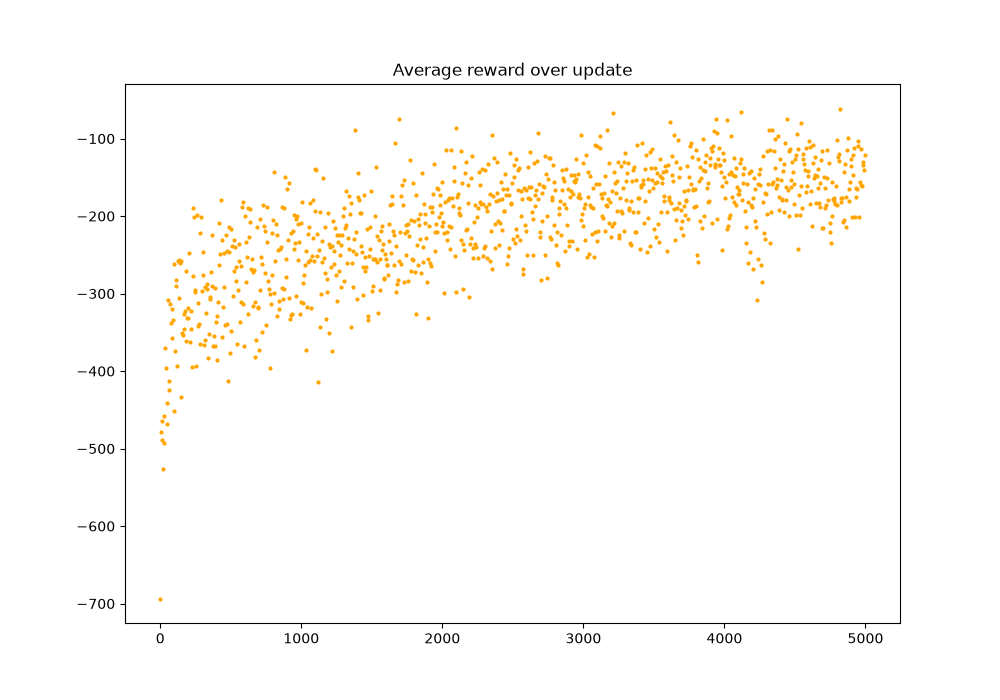
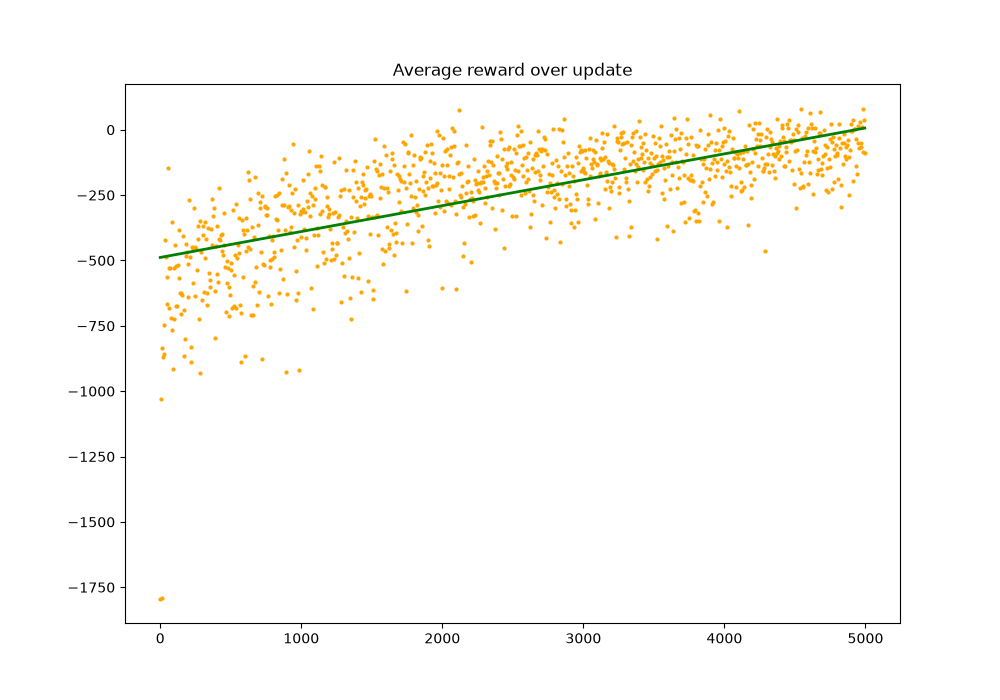
modified to have dynamic friction and throttle force to input to pid finder, updated graphs

diff --git a/auto/pid-reinforcement/reinforcement_machine_learning.py b/auto/pid-reinforcement/reinforcement_machine_learning.py
@@ -13,6 +13,7 @@ import random
 import sys
 
 import matplotlib.pyplot as plt
+import numpy as np
 import torch
 import torch.nn.functional as F
 from torch import nn
@@ -33,31 +34,39 @@ device = "cpu"
 print("Device used: " + device)
 
 class Env_For_Car():
-	def __init__(self, max_v:float=100, max_dt:float=0.3, steps:int=250):
+	def __init__(self, max_v:float=100, max_dt:float=0.3, max_throttle_force:float=10000, max_friction:float=2.0, steps:int=250):
 		self.currentCar = None
-		self.max_v = max_v * 1.2
-		self.max_dt = max_dt * 1.2
+		self.max_v = max_v
+		self.max_dt = max_dt
+		self.max_throttle_force = max_throttle_force
+		self.max_friction = max_friction
+
+		self.max_v_adjusted = max_v * 1.2
+		self.max_dt_adjusted = max_dt * 1.2
+		self.max_throttle_force_adjusted = max_throttle_force * 1.2
+		self.max_friction_adjusted = max_friction * 1.2
+
 		self.steps = steps
 		self.prev_rewards = [0]
 
-	def create_car(self, desired_v:float, dt:float):
-		self.currentCar = make_car(desired_v=desired_v, dt=dt)
+	def create_car(self, desired_v:float, dt:float, mass: float = 1000, max_throttle_force: float = 5000, friction: float = 2.0):
+		self.currentCar = make_car(desired_v, dt, mass, max_throttle_force, friction)
 		self.prev_reward = 0
 
 	def get_state(self):
-		return [(self.currentCar["desired_v"] / self.max_v), (self.currentCar["dt"] / self.max_dt), (self.currentCar["v"] / self.max_v)]
+		return [(self.currentCar["desired_v"] / self.max_v_adjusted), (self.currentCar["dt"] / self.max_dt_adjusted), (self.currentCar["v"] / self.max_v_adjusted), (self.currentCar["max_throttle_force"] / self.max_throttle_force_adjusted), (self.currentCar["friction"] / self.max_friction_adjusted)]
 
 	def step(self, P:float, I:float, D:float):
 		# old_error = abs(self.currentCar["desired_v"] - self.currentCar["v"])
 		acceleration_desired, _ = calculate_desired_acceleration(self.currentCar, P, I, D)
-		throttle_perc = acceleration_to_throttle_percentage(acceleration_desired)
+		throttle_perc = acceleration_to_throttle_percentage(acceleration_desired, self.currentCar)
 		update(self.currentCar, throttle_perc)
 		done = False
 		if (self.currentCar["step"] >= self.steps):
 			done = True
 
 		error = abs(self.currentCar["desired_v"] - self.currentCar["v"])
-		reward = -error / self.max_v
+		reward = -error / self.max_v_adjusted
 
 		#try changing these values as it gets closer like load model and have these more strict/better reward
 		reward += 0.1 * (0.2 / max(error, 0.1))
@@ -100,7 +109,7 @@ class RL_Project():
 		random.seed(seed)
 		torch.manual_seed(seed)
 
-		self.policy = Policy_Gradient(n_observations=3).to(device) #set the model and gradient descent
+		self.policy = Policy_Gradient(n_observations=5).to(device) #set the model and gradient descent
 		self.optimizer = torch.optim.Adam(self.policy.parameters(), lr=1e-3) # optimizer for the loss
 		self.average_reward = []
 		self.average_reward_times = []
@@ -159,9 +168,11 @@ class RL_Project():
 			
 			for _ in range(batch_size):
 				#make a random desired velocity and desired dt then creates the car enviroment with
-				desired_v = round(random.uniform(0, 100), 1)
-				dt = round(random.uniform(0.1, 0.3), 2)
-				env_car.create_car(desired_v=desired_v, dt=dt)
+				desired_v = round(random.uniform(0, env_car.max_v), 1)
+				dt = round(random.uniform(0.1, env_car.max_dt), 2)
+				throttle_force = round(random.uniform(3000, env_car.max_throttle_force), 2)
+				friction = round(random.uniform(1, env_car.max_friction_adjusted), 2)
+				env_car.create_car(desired_v=desired_v, dt=dt, max_throttle_force=throttle_force, friction=friction)
 
 				log_probs, rewards = [], []
 				done = False
@@ -203,6 +214,9 @@ class RL_Project():
 			#graphs reward overtime along with saves it
 			plt.figure(figsize=(10, 7))
 			plt.scatter(self.average_reward_times, self.average_reward, c="orange", s=4, label="Average reward over update")
+			times_array = np.array(self.average_reward_times)
+			slope, intercept = np.polyfit(times_array, self.average_reward, 1)
+			plt.plot(times_array, slope * times_array + intercept, color='green', linestyle='-', linewidth=2, label='Average reward over update trend line')
 			plt.title("Average reward over update")
 			plt.savefig("auto/pid-reinforcement/Average_Reward_Over_Update_Last_Training_Run.png")
 			plt.show()

diff --git a/auto/pid-reinforcement/run_reinforcement.py b/auto/pid-reinforcement/run_reinforcement.py
@@ -8,22 +8,25 @@ BATCH_SIZE = 32 # training - how many episodes (games it plays) you want it to d
 GAMMA = 0.99 # training - how much you want the model to pay attention to its current decision... higher means it will look further ahead and a single bad idea it will think overall it was for a better reward (bad wording, covered easily online what gamma is)
 
 MAX_DT = 0.3 # training - max dt (delay time... like how often it will update per second... 0.1 is every 0.1 seconds) it will ever see (lowest is hard set to 0.1)
-MAX_V = 100 # training and training - max velocity it will ever see (lowest is hard set to 0)
-STEPS = 550 # training and training - how many dt per episode/game
+MAX_V = 100 # training and testing - max velocity it will ever see (lowest is hard set to 0)
+MAX_THROTTLE_FORCE = 10000 # training and testing - max throttle force, min is set to 3000
+MAX_FRICTION = 2.5 # training and testing - max friction number, min hard set to 1.0
+STEPS = 1000 # training and testing - how many dt per episode/game
 
 DESIRED_V = 20 # testing - desired velocity to hit
 DESIRED_DT = 0.1 # testing - dt during testing game
+MASS = 1000 # testing - M
+FRICTION = 2 # testing - friction number
+THROTTLE_FORCE = 5000 # testing - max throttle due 
 
 
-
-
-TOGGLE_TRAINING = False # training - toggle where model with train (true means it will)
+TOGGLE_TRAINING = True # training - toggle where model with train (true means it will)
 LOAD_PREVIOUSE_MODEL_FOR_TRAINING = False # training - toggles whether to load the previouse model for training or to make a new one from random tensors (True means it will start a new)
 
 # TRAINING
 if (TOGGLE_TRAINING):
 
-	CarEnv = Env_For_Car(max_v=MAX_V, max_dt=MAX_DT, steps=STEPS)
+	CarEnv = Env_For_Car(max_v=MAX_V, max_dt=MAX_DT, max_throttle_force=MAX_THROTTLE_FORCE, max_friction=MAX_FRICTION, steps=STEPS)
 
 	rl_prj = RL_Project()
 	if (LOAD_PREVIOUSE_MODEL_FOR_TRAINING):
@@ -35,7 +38,7 @@ if (TOGGLE_TRAINING):
 
 #TESTING
 # create car enviroment obj
-CarEnv = Env_For_Car(max_v=MAX_V, max_dt=MAX_DT, steps=STEPS)
+CarEnv = Env_For_Car(max_v=MAX_V, max_dt=MAX_DT, max_throttle_force=MAX_THROTTLE_FORCE, max_friction=MAX_FRICTION, steps=STEPS)
 
 # create reinforcement learning obj and loads the model
 rl_prj = RL_Project()
@@ -47,7 +50,7 @@ times = []
 errors = []
 
 # create car enviroment
-car = CarEnv.create_car(desired_v=DESIRED_V, dt=DESIRED_DT)
+car = CarEnv.create_car(desired_v=DESIRED_V, dt=DESIRED_DT, max_throttle_force=THROTTLE_FORCE, friction=FRICTION)
 
 # runs the model for each step
 P, I, D = rl_prj.get_pid_from_loaded_model(CarEnv)

diff --git a/auto/pid_template.py b/auto/pid_template.py
@@ -1,7 +1,7 @@
 import numpy as np
 
 
-def make_car(desired_v:float=20.0, dt:float=0.1) -> dict:
+def make_car(desired_v:float=20.0, dt:float=0.1, mass: float = 1000, max_throttle_force: float = 5000, friction: float = 2.0) -> dict:
 	""" 
 	Generates a dictionary that holds all the car's values. Keeps track of state varaibles.
 	"""
@@ -15,6 +15,9 @@ def make_car(desired_v:float=20.0, dt:float=0.1) -> dict:
 		"desired_v" : desired_v, #desired velocity of your car, the velocity you want to maintain
 		"step" : 0,
 		"last_throttle_perc" : 0, #last throttle perc
+		"mass": mass,
+		"max_throttle_force": max_throttle_force,
+		"friction": friction,
 
 		#hint: use these variables in the integral and derivative portion of your PID control (steps 5 and 6 )
 		"error_prev" : None,
@@ -22,7 +25,7 @@ def make_car(desired_v:float=20.0, dt:float=0.1) -> dict:
 	}
 	return car_state_dictionary
 
-def update(car: dict, throttle_perc: float, mass: float = 1000, max_throttle_force: float = 5000, friction: float = 2.0) -> None:
+def update(car: dict, throttle_perc: float) -> None:
 	"""
 	Updates the car's state variables based on the throttle percentage.
 	Use this function after finding throttle percentage to update the car's state variables.
@@ -34,9 +37,9 @@ def update(car: dict, throttle_perc: float, mass: float = 1000, max_throttle_for
 	Outputs:
 	None, but updates the car's state variables
 	"""	
-	force = throttle_perc * max_throttle_force
+	force = throttle_perc * car["max_throttle_force"]
 	car["last_throttle_perc"] = throttle_perc
-	car["a"] = (force / mass) - friction
+	car["a"] = (force / car["mass"]) - car["friction"]
 	car["v"] += car["a"] * car["dt"]
 	car["x"] += car["v"] * car["dt"]
 	car["t"] += car["dt"]
@@ -64,11 +67,11 @@ def calculate_desired_acceleration(car: dict, K_P: float, K_I: float = 0.0, K_D:
 
 
 
-def acceleration_to_throttle_percentage(acceleration_desired: float, mass: float = 1000, max_throttle_force: float = 5000) -> float:
+def acceleration_to_throttle_percentage(acceleration_desired: float, car: dict) -> float:
 	#input: desired_acceleration(float)
 	#output: throttle percentage (float, -1 to 1)
 
-	max_acceleration = max_throttle_force / mass
+	max_acceleration = car["max_throttle_force"] / car["mass"]
 	throttle = acceleration_desired / max_acceleration
 	throttle_perc = np.clip(throttle, -1, 1)
 

diff --git a/auto/README.md b/auto/README.md
@@ -2,6 +2,9 @@
 
 There are two different main files in this project
 
+# BEING WORKED ON/WILL REPLACE OTHER ONE pid-reinforcement/run_reinforcement.py is for running machine learning to calculate the pid system
+
+
 # run_reinforcement.py is for running machine learning
 This is where you can run my machine learning algorithm for the car, there is an already include trained model that will load on its own.
 All variables are at the top to customize training and the enviroment, it will also plot your training results for you when its done training.
